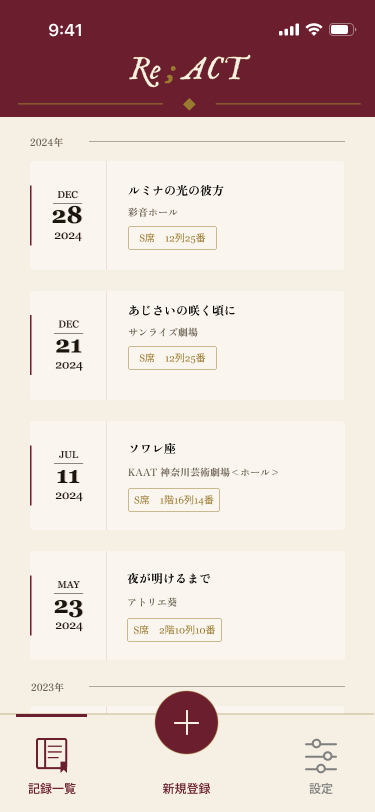
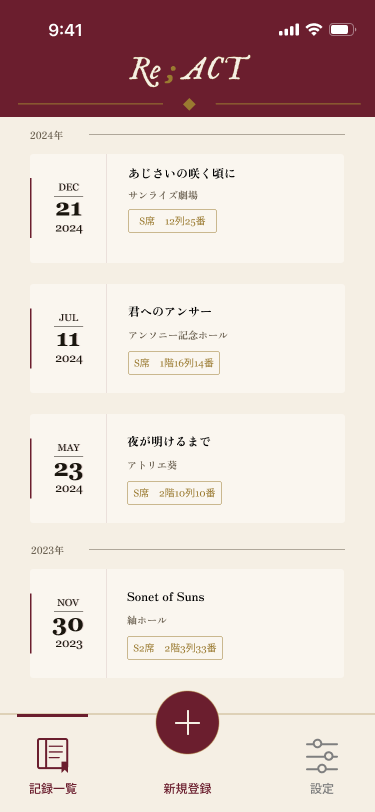
updates

diff --git a/index.html b/index.html
@@ -1245,7 +1245,7 @@ header{position:sticky;top:0;z-index:200;background:rgba(255,255,255,0.97);backd
           <div class="mockup-label" style="color:var(--ink2);font-size:12px;font-weight:500">チケット詳細</div>
         </div>
         <div class="mockup-item zoomable">
-          <img src="https://raw.githubusercontent.com/scent428/portfolio/main/assets/images/works/react/UI/ReACT_TixketRegist.png" alt="新規登録" onclick="openLightbox(this.src, '新規登録')">
+          <img src="https://raw.githubusercontent.com/scent428/portfolio/main/assets/images/works/react/UI/ReACT_TicketRegist.png" alt="新規登録" onclick="openLightbox(this.src, '新規登録')">
           <div class="mockup-label" style="color:var(--ink2);font-size:12px;font-weight:500">新規登録</div>
         </div>
       </div>
@@ -1632,7 +1632,7 @@ header{position:sticky;top:0;z-index:200;background:rgba(255,255,255,0.97);backd
           <div class="mockup-label" style="color:var(--ink2);font-size:12px;font-weight:500">チケット詳細</div>
         </div>
         <div class="mockup-item zoomable">
-          <img src="https://raw.githubusercontent.com/scent428/portfolio/main/assets/images/works/react/UI/ReACT_TixketRegist.png" alt="新規登録" onclick="openLightbox(this.src, '新規登録')">
+          <img src="https://raw.githubusercontent.com/scent428/portfolio/main/assets/images/works/react/UI/ReACT_TicketRegist.png" alt="新規登録" onclick="openLightbox(this.src, '新規登録')">
           <div class="mockup-label" style="color:var(--ink2);font-size:12px;font-weight:500">新規登録</div>
         </div>
       </div>
